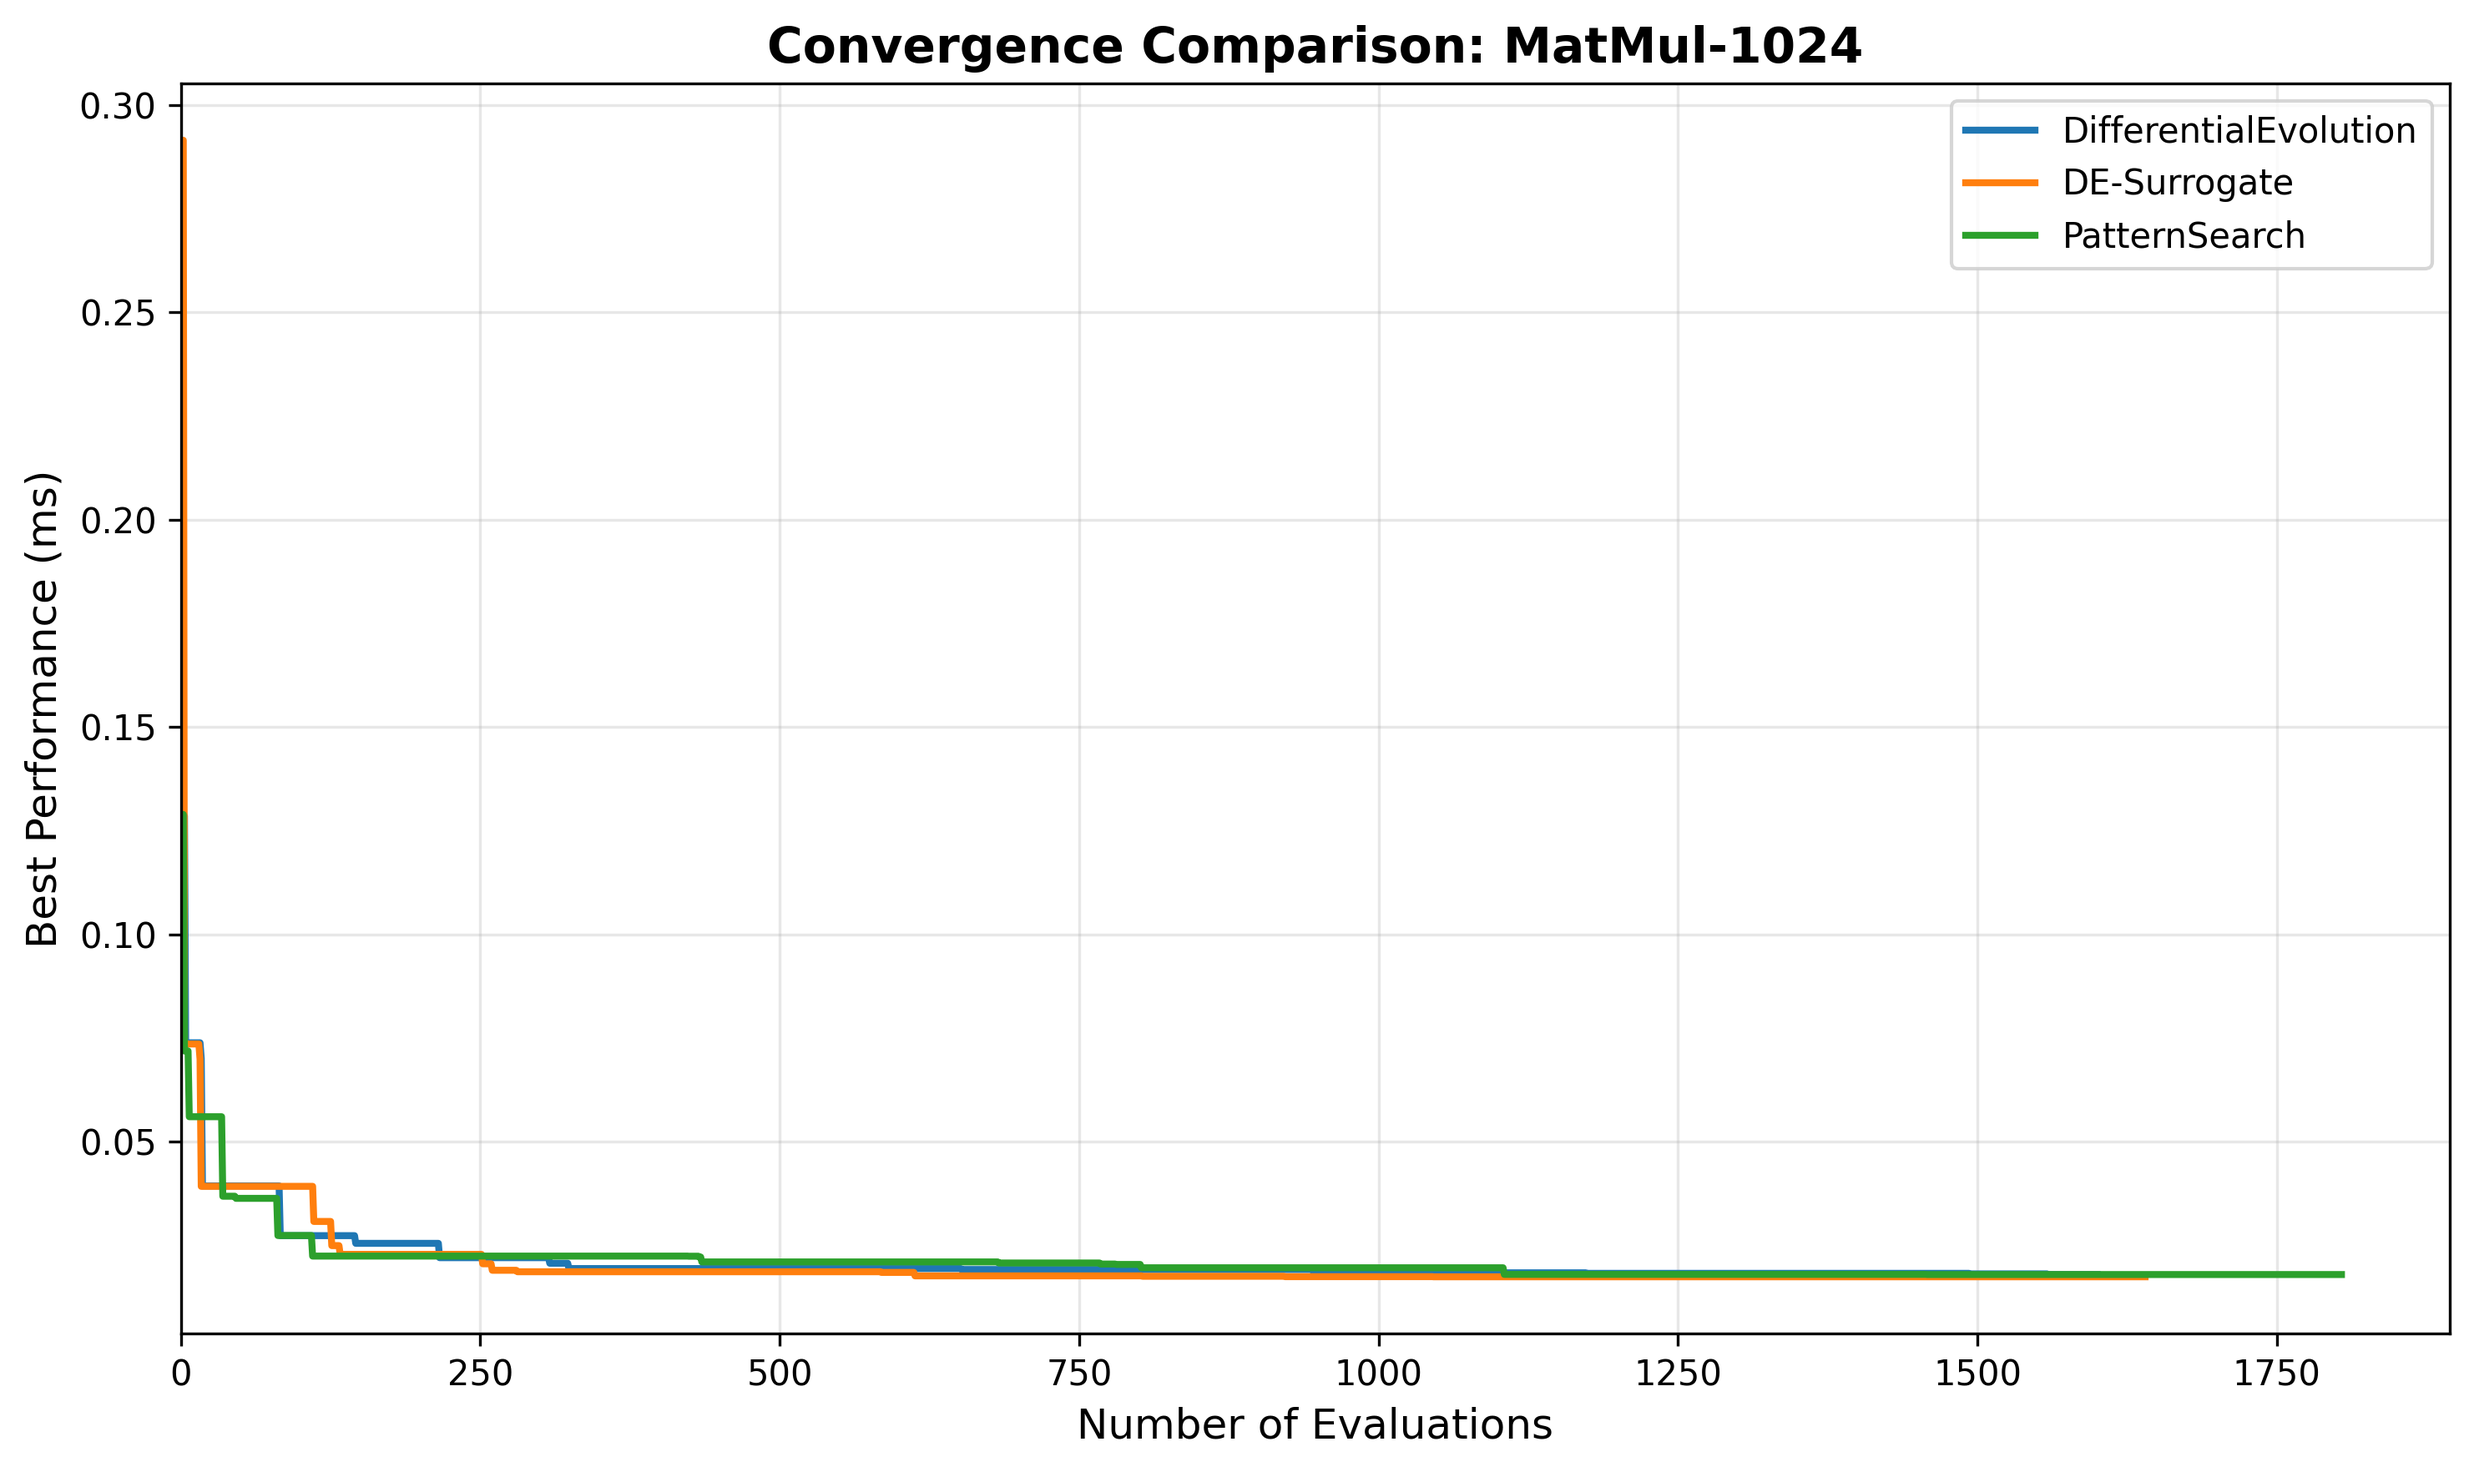
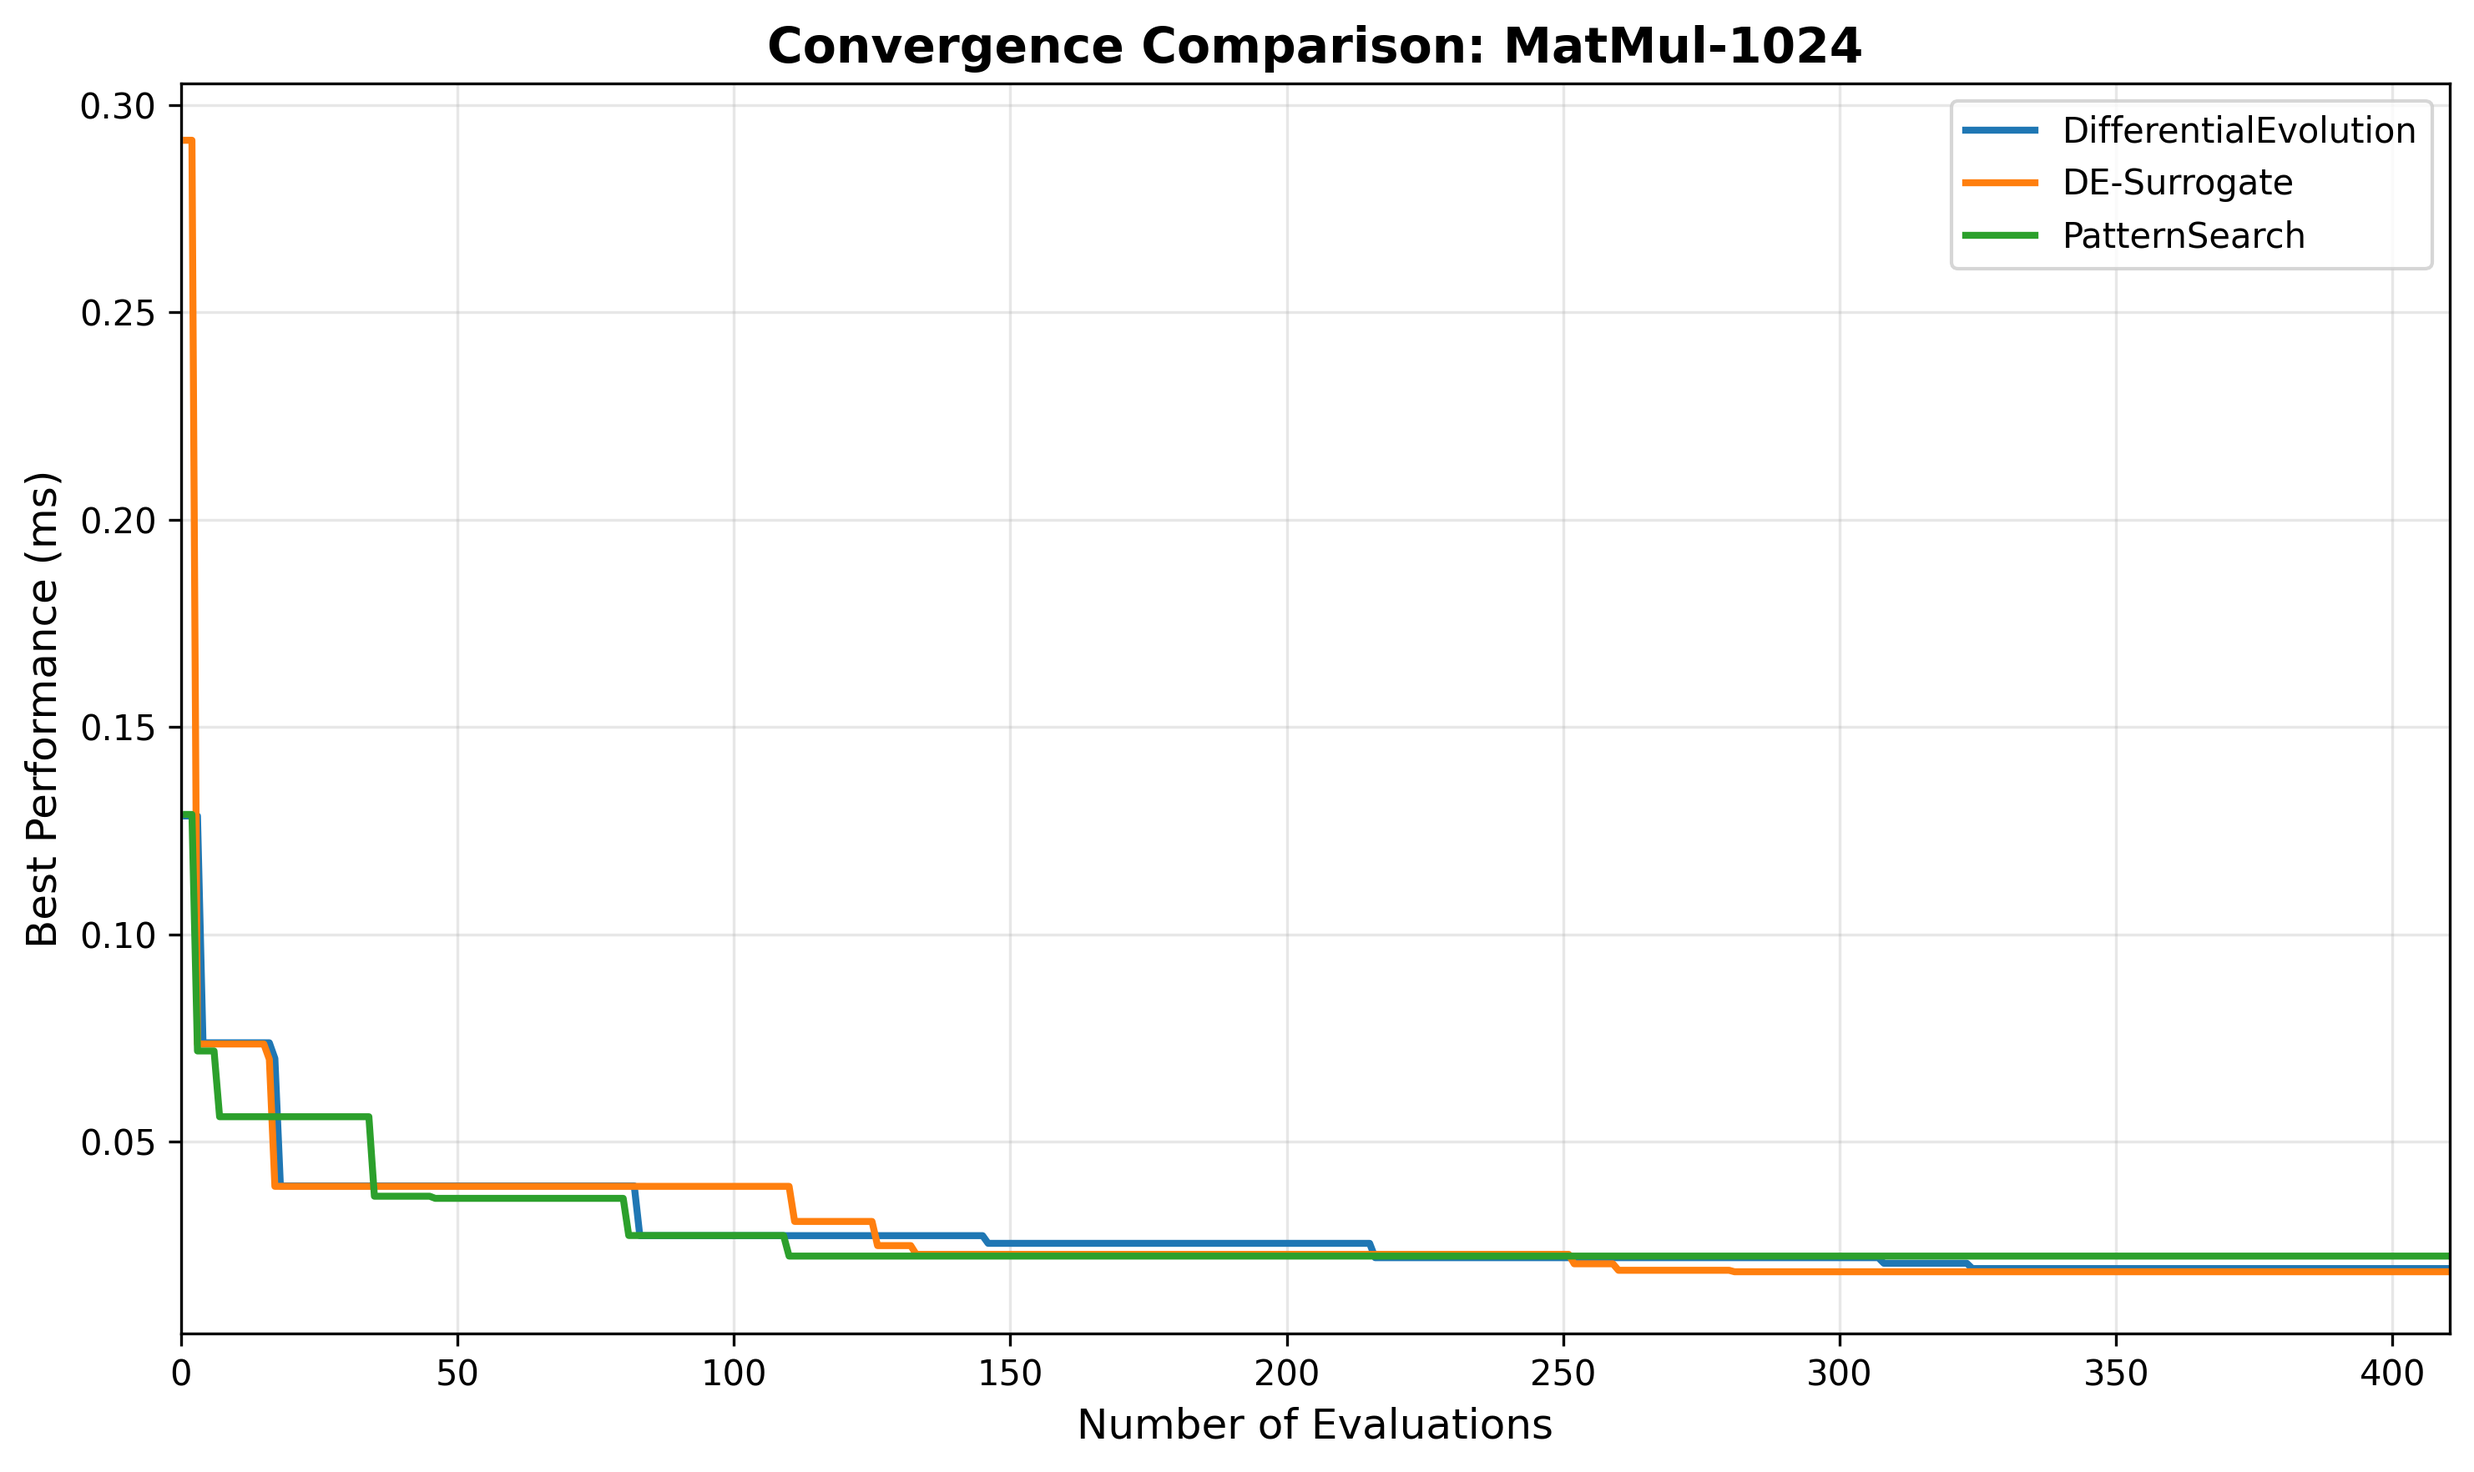
Auto-detect convergence and zoom X-axis to interesting region
Added convergence detection to automatically find where algorithms stop
improving and set X-axis limit to the last convergence point. This zooms
in on the actual convergence behavior instead of showing long flat tails.

Convergence points detected:
- MatMul-1024: converged by ~373 evals, X-axis 0-410
- GELU-1M: converged by ~132 evals, X-axis 0-145
- FusedReLUAdd-1M: converged by ~123 evals, X-axis 0-135

This makes the convergence dynamics much clearer and easier to compare,
showing where the interesting optimization behavior happens.

diff --git a/scripts/regenerate_plots.py b/scripts/regenerate_plots.py
@@ -23,6 +23,36 @@ def parse_csv_convergence(csv_path):
 
     return evals, perfs
 
+
+def find_convergence_point(perfs, patience=100, threshold=0.001):
+    """Find where performance stopped improving significantly.
+
+    Args:
+        perfs: List of best performance values over time
+        patience: Number of evaluations without improvement to consider converged
+        threshold: Relative improvement threshold (0.001 = 0.1%)
+
+    Returns:
+        Index where convergence occurred
+    """
+    if len(perfs) < patience:
+        return len(perfs)
+
+    for i in range(len(perfs) - patience):
+        current_best = perfs[i]
+        future_best = min(perfs[i:i+patience])
+
+        # Check if improvement is less than threshold
+        if current_best == 0:
+            improvement = 0
+        else:
+            improvement = (current_best - future_best) / current_best
+
+        if improvement < threshold:
+            return i + int(patience * 0.5)  # Return midpoint for better visualization
+
+    return len(perfs)
+
 def plot_convergence(kernel_name):
     """Generate convergence plot for a kernel."""
     plt.figure(figsize=(10, 6))
@@ -34,7 +64,7 @@ def plot_convergence(kernel_name):
     }
 
     log_dir = Path('convergence_logs')
-    all_max_evals = []
+    convergence_points = []
 
     for algo in ['DifferentialEvolution', 'DE-Surrogate', 'PatternSearch']:
         csv_path = log_dir / f"{kernel_name}_{algo}.csv"
@@ -46,14 +76,18 @@ def plot_convergence(kernel_name):
         evals, perfs = parse_csv_convergence(csv_path)
 
         if evals and perfs:
-            all_max_evals.append(max(evals))
-            plt.plot(evals, perfs, label=algo, color=colors.get(algo, 'gray'), linewidth=2)
-            print(f"  Added {algo}: {len(evals)} evals, best={min(perfs):.4f}ms")
+            # Find where this algorithm converged
+            conv_idx = find_convergence_point(perfs)
+            convergence_points.append(conv_idx)
 
-    # Set X-axis to show all data with some padding
-    if all_max_evals:
-        max_x = max(all_max_evals)
-        plt.xlim(0, max_x * 1.05)
+            plt.plot(evals, perfs, label=algo, color=colors.get(algo, 'gray'), linewidth=2)
+            print(f"  Added {algo}: {len(evals)} evals, best={min(perfs):.4f}ms, converged at ~{conv_idx}")
+
+    # Set X-axis to where the last algorithm converged (with 10% margin)
+    if convergence_points:
+        max_convergence = max(convergence_points)
+        plt.xlim(0, max_convergence * 1.1)
+        print(f"  X-axis limited to {int(max_convergence * 1.1)} (last convergence at {max_convergence})")
 
     plt.xlabel('Number of Evaluations', fontsize=12)
     plt.ylabel('Best Performance (ms)', fontsize=12)
